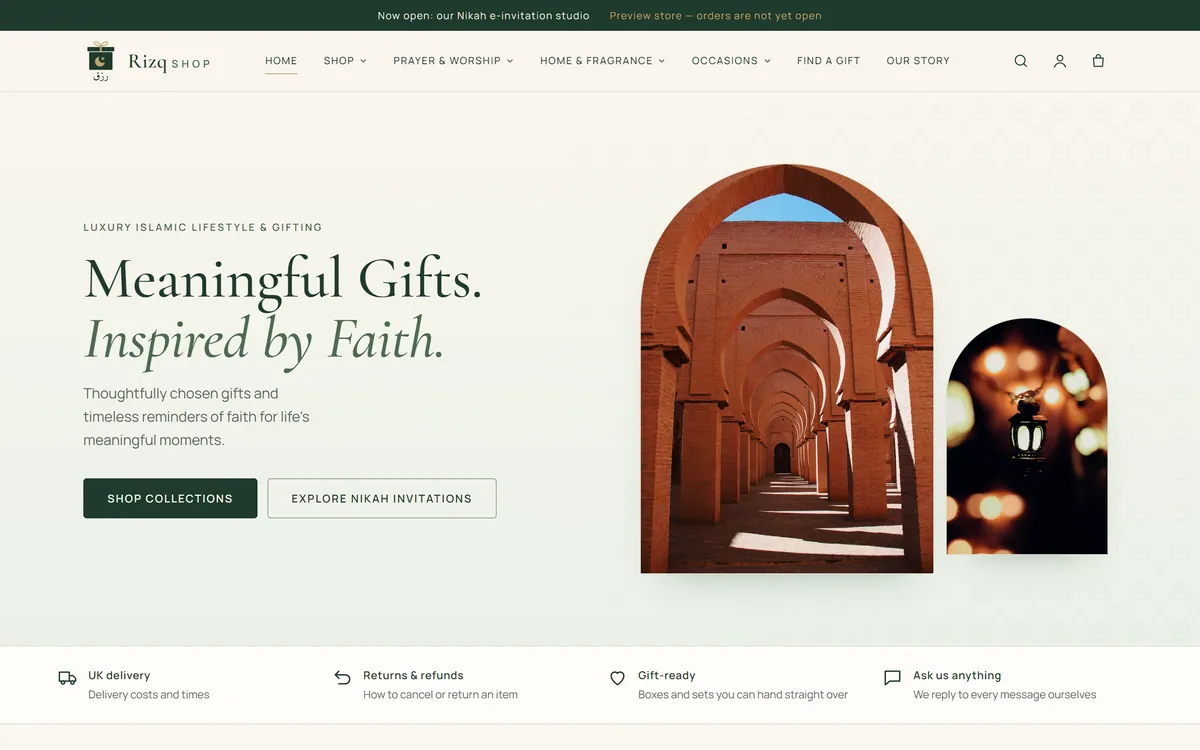
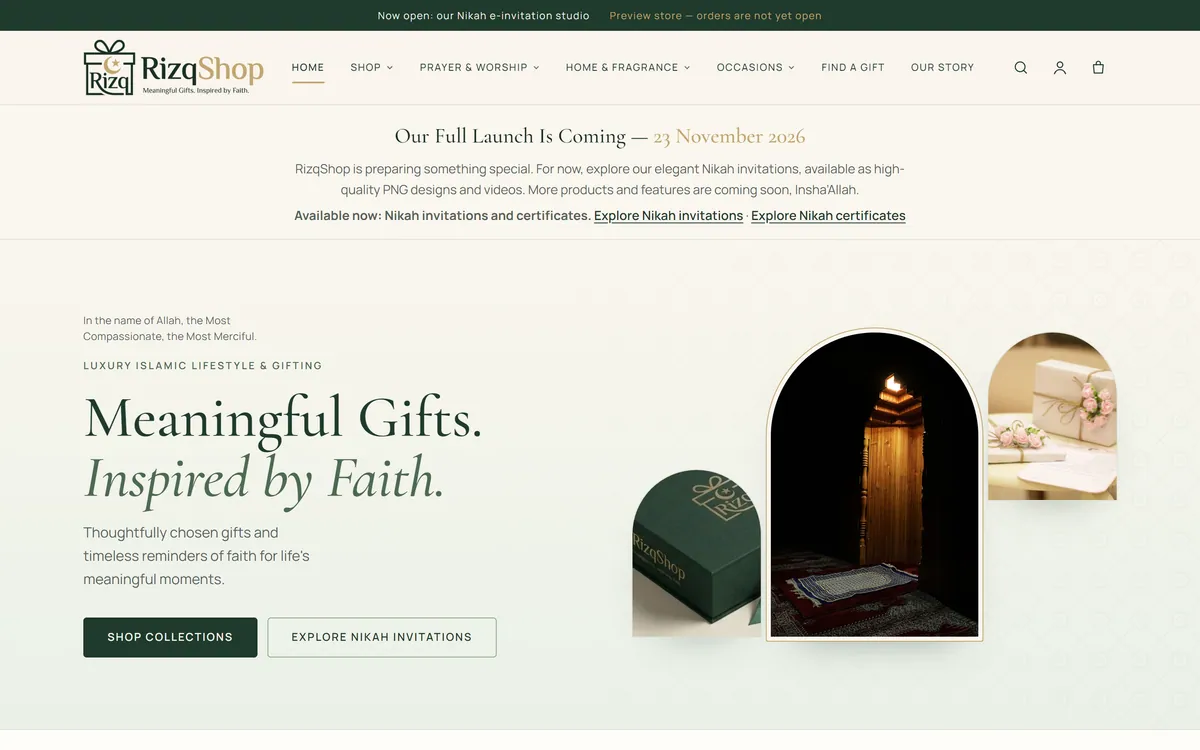
Update RizqShop portfolio entry with new screenshots and live address
New home-page captures plus three gallery shots (invitation studio, live preview, Nikah
certificates), a refreshed case study, and a gallery capture script.

diff --git a/src/data/projects.ts b/src/data/projects.ts
@@ -163,21 +163,26 @@ const noorAndCo: WebsiteProject = {
 const rizqShop: WebsiteProject = {
   slug: 'rizqshop',
   title: 'RizqShop',
-  type: 'E-commerce storefront (demo)',
-  description: 'Premium Islamic gifting store with its own Arabic logo, a gift finder quiz and a Nikah invitation studio.',
-  overview: 'A demo storefront for a premium Islamic gifting brand, built to show a prospective client what their website could look like. Products and prices are clearly marked as samples, and checkout, the contact form and invitation purchases are not connected.',
-  built: 'A multi-page storefront with its own identity (a gift-box and رزق logo drawn from real Arabic letter outlines, a sage, ivory and forest palette, and a drop-down navigation), collection and product pages, a journal, and a story page. It includes a six-question gift finder that matches real catalogue data, and a Nikah Invitation Studio with eleven designs, a live preview, a shareable guest page with countdown and map link, and an animated 9:16 video invitation preview. Details that are not confirmed, such as materials, stock, prices and MP4 export, are marked as pending rather than invented.',
+  type: 'Islamic gifting storefront and digital Nikah studio',
+  description: 'Premium Islamic gifting brand preparing for launch on 23 November 2026, with its own Arabic logo, 17 Nikah invitation designs, Nikah certificates and an owner studio.',
+  overview: 'RizqShop is a premium Islamic gifting brand preparing for its full launch on 23 November 2026. The live site already offers elegant Nikah invitations and Nikah certificates, alongside a gifting storefront whose products and prices are marked as samples until launch. Online payment is built but not switched on yet.',
+  built: 'A multi-page storefront with its own identity (a gift-box and رزق logo drawn from real Arabic letter outlines, a forest green, warm ivory and champagne gold palette), a gift finder quiz, a journal and a story page. On top of that, a Nikah Invitation Studio with 17 designs, a live preview and a shareable guest page with countdown, map link and RSVP; Nikah certificates with three designs that export as A4 PNG files at 300 dpi; and an owner-only studio for drafts, publishing and order approval, with PNG and animated MP4 export (including licensed background music) rendered in the browser. Stripe and PayPal checkout with server-side payment verification is built and tested against mock providers, and waits on account setup before it goes live.',
   features: [
-    'Gift finder quiz that recommends products by recipient, occasion, type, budget and style',
-    'Nikah Invitation Studio with live preview, programme and RSVP details, and WhatsApp, email and text sharing',
-    'Animated palace-style video invitation preview in vertical 9:16 format',
-    'Journal, Our Story and inspiration pages, with Qur’an and hadith references checked against named sources',
-    'UK-focused policy pages, no tracking scripts or cookies, and licensed, locally hosted photography with documented sources',
+    '17 Nikah invitation designs with a live preview, groom-first names, and a guest page with countdown, map link and private RSVP',
+    'Nikah certificates in three designs, exported as 3508 × 2480 px PNG files (A4 at 300 dpi), clearly marked as a keepsake rather than a legal document',
+    'Owner-only studio: save drafts, publish, duplicate, and recreate a customer’s invitation or certificate from their order, with manual approval before a permanent link is issued',
+    'Invitation PNG exports up to 4320 × 5400 px and a 45 to 60 second animated MP4 e-invitation with a soundtrack from a licensed music library',
+    'Gift finder quiz, journal and Our Story pages, UK-focused policy pages, no tracking scripts or cookies, and licensed, locally hosted photography with documented sources',
   ],
-  url: 'https://rizqshop.vercel.app/',
+  url: 'https://rizqshop.co.uk/',
   image: '/images/portfolio/rizqshop-desktop-1600.webp',
-  alt: 'RizqShop storefront homepage',
-  metaDescription: 'A demo storefront for a premium Islamic gifting brand, with a gift finder quiz, a Nikah invitation studio and its own Arabic logo, built ready to move to Shopify.',
+  alt: 'RizqShop homepage with the launch banner, hero and Nikah invitation and certificate links',
+  gallery: [
+    { src: '/images/portfolio/rizqshop-nikah-studio-1440.webp', alt: 'RizqShop Nikah invitation studio showing the gallery of designs with light, dark, floral and geometric filters' },
+    { src: '/images/portfolio/rizqshop-nikah-preview-1440.webp', alt: 'RizqShop invitation preview with the couple’s names, date and venue, and sharing options' },
+    { src: '/images/portfolio/rizqshop-certificates-1440.webp', alt: 'RizqShop Nikah certificate page with a live landscape certificate preview and personalisation form' },
+  ],
+  metaDescription: 'RizqShop: a premium Islamic gifting brand site with 17 Nikah invitation designs, Nikah certificates, an owner studio and PNG and MP4 exports, launching 23 November 2026.',
   services: ['Website design', 'Web development', 'E-commerce', 'Brand identity'],
   technologies: ['React', 'TypeScript', 'Vite'],
 }
